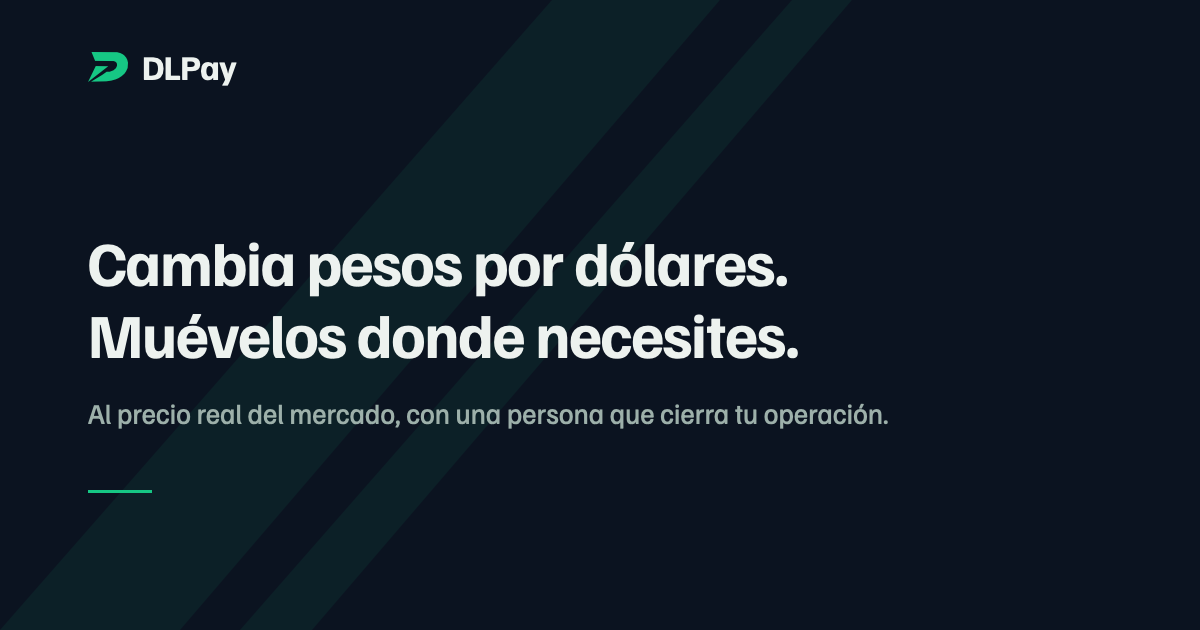
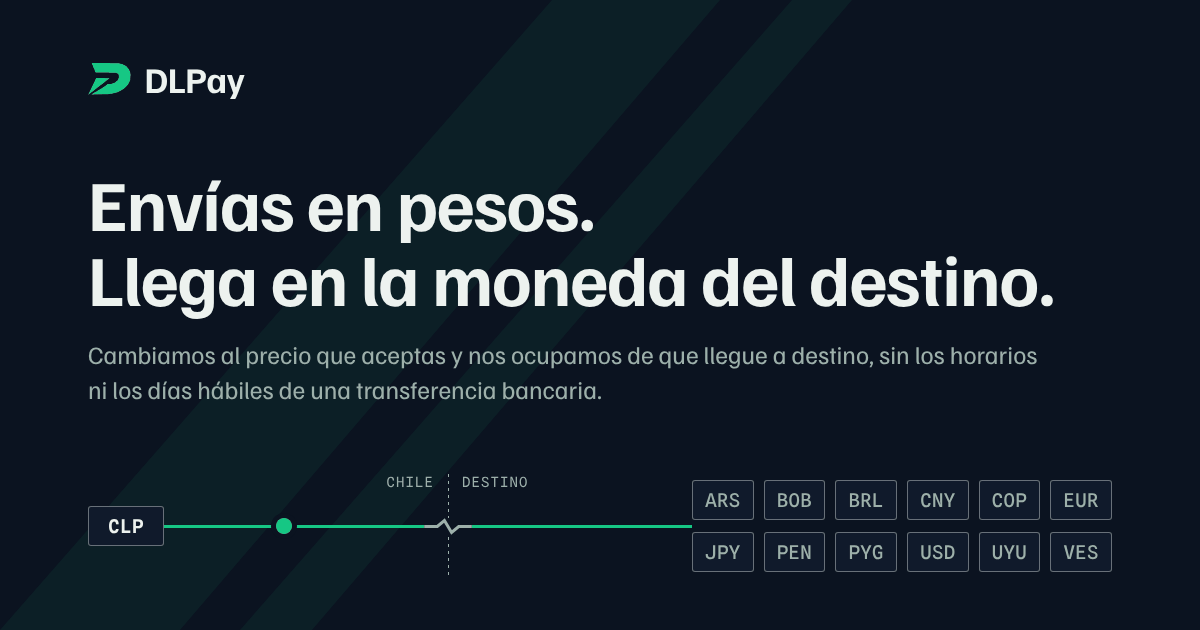
assets(og): la imagen de compartir dice lo que dice el héroe
- «Envías en pesos. Llega en la moneda del destino.» y la bajada del
  héroe, letra por letra; abajo, el recorrido del sitio —tramo verde,
  punto, cuña y frontera— hasta las doce monedas, el dólar una de ellas
- sin plazo, sin canal en el destino, nada regulatorio
- el alt cambia con ella; 88.049 → 31.326 B; mismas medidas
- el fuente, por fin, versionado en docs/og-image/

Entrega `og-` de Cowork, integrada sobre 826d569. Comprobado por mi
lado antes de publicarla: las doce fichas de divisa coinciden una a una
con el catálogo de `currencies.ts`, el titular y la bajada coinciden
letra por letra con `Hero.astro`, y ninguna de las cinco cosas que el
encargo prohibía —plazo, canal, claim regulatorio, «remesa», el dólar
como producto— aparece escrita ni dibujada.

El guion va como `.mjs.txt` y no como `.mjs`: `tsconfig.json` incluye
`**/*` y sólo excluye `dist` y `Claude outputs`, así que un `.mjs` que
importa `playwright` —que no es dependencia— rompería `astro check`.
Es la convención que `cowork/README.md` ya usa.

**Y el fuente se comprobó, no se archivó a ciegas:** rasterizado desde
`docs/og-image/` da los mismos 1200 × 630 y un 1,1 % de píxeles
distintos, todos en bordes de texto y diagonales — el paso de 128
colores, no otro dibujo. Las fuentes cargan desde `../../public/fonts/`.

18 páginas · 128/128 · 0 errores, 0 avisos · el alt y las medidas, en
las 18

diff --git a/docs/og-image/og-fuente.html b/docs/og-image/og-fuente.html
@@ -1,0 +1,122 @@
+<!doctype html>
+<!--
+  og-image.png · fuente · Cowork, entrega `og-`, 2026-10-22. Archivo: `og-fuente.html`.
+
+  Se rasteriza a 1200 × 630 con Chromium (Playwright): `node og-rasterizar.mjs`, que va al lado.
+  **No sirve la captura de la línea de comandos de Chrome** (`--headless=new --screenshot`): su
+  ventana de 630 deja una vista de ~543 px y corta la figura de abajo. Probado el 2026-10-22.
+  Después se reduce a 128 colores (PIL: quantize, MEDIANCUT, sin tramado): 31 KB, igual a la vista.
+  Las fuentes son las de `public/fonts/` del repo, por ruta relativa. **Este archivo ya vive en
+  `docs/og-image/`**, así que las tres apuntan a `../../public/fonts/`: se versionó el 2026-10-22,
+  que era la condición que `docs/development.md` pedía tras perderse el fuente de la primera
+  versión.
+
+  Qué dice, y de dónde sale cada cosa:
+  · Titular: `Hero.astro`, letra por letra — «Envías en pesos. Llega en la moneda del destino.»
+  · Bajada: la bajada del héroe, letra por letra.
+  · La figura: el recorrido de «El mismo envío, por dos caminos» y del cotizador, con sus marcas
+    del DS §6.2 — tramo verde (lo nuestro, de punta a punta desde ADR-0014), punto verde (la
+    unidad de valor), cuña (cambia de manos), punteado (la frontera de Chile, un límite).
+  · Las doce monedas van en orden alfabético y con el mismo peso: el dólar es una más (ADR-0013).
+
+  Lo que NO dice, ni escrito ni dibujado (CLAUDE.md §1, ADR-0014): ningún plazo ni reloj, ningún
+  canal de entrega ni banco en el destino, nada regulatorio, ni «remesa».
+-->
+<html lang="es-CL">
+<head>
+<meta charset="utf-8">
+<style>
+  @font-face { font-family: 'Familjen Grotesk'; font-weight: 400 700; src: url('../../public/fonts/familjen-grotesk-latin.woff2') format('woff2'); unicode-range: U+0000-00FF, U+2000-206F; }
+  @font-face { font-family: 'Familjen Grotesk'; font-weight: 400 700; src: url('../../public/fonts/familjen-grotesk-latin-ext.woff2') format('woff2'); unicode-range: U+0100-02BA; }
+  @font-face { font-family: 'Spline Sans Mono'; font-weight: 400 600; src: url('../../public/fonts/spline-sans-mono-latin.woff2') format('woff2'); unicode-range: U+0000-00FF, U+2000-206F; }
+
+  :root {
+    --tinta: #0B1320; --tinta-2: #101A2B; --verde: #16C784;
+    --on-tinta: #EDF2EF; --on-tinta-mute: #9DB0AA; --line-on-tinta: rgba(237, 242, 239, .40);
+  }
+  * { box-sizing: border-box; margin: 0; padding: 0; }
+  html, body { width: 1200px; height: 630px; }
+  body {
+    position: relative; overflow: hidden;
+    background: var(--tinta); color: var(--on-tinta);
+    font-family: 'Familjen Grotesk', sans-serif;
+    -webkit-font-smoothing: antialiased;
+  }
+  /* Las cuñas del héroe, con su misma geometría y su misma opacidad. */
+  .cunas {
+    position: absolute; inset: 0; background: var(--verde); opacity: .07;
+    clip-path: polygon(0 100%, 46% 0, 60% 0, 15% 100%, 20% 100%, 66% 0, 71% 0, 26% 100%);
+  }
+  .lienzo { position: absolute; inset: 0; padding: 56px 88px 0; }
+
+  .marca { display: flex; align-items: center; gap: 14px; font-weight: 700; font-size: 36px; letter-spacing: -.01em; }
+  .marca svg { height: 32px; width: auto; color: var(--verde); display: block; }
+
+  h1 {
+    margin-top: 64px;
+    font-weight: 700; font-size: 72px; line-height: 1.04; letter-spacing: -.015em;
+  }
+  h1 span { display: block; }
+  .bajada {
+    margin-top: 22px; max-width: 960px;
+    font-size: 25px; line-height: 1.42; color: var(--on-tinta-mute);
+  }
+
+  /* ── El recorrido ─────────────────────────────────────────────────────── */
+  .ruta { position: absolute; left: 88px; right: 88px; bottom: 58px; height: 92px; }
+  .ficha {
+    font-family: 'Spline Sans Mono', monospace; font-weight: 600; font-size: 19px; letter-spacing: .02em;
+    display: grid; place-items: center; height: 40px; padding: 0 12px;
+    border: 1px solid var(--line-on-tinta); border-radius: 3px; background: var(--tinta-2); color: var(--on-tinta);
+  }
+  .origen { position: absolute; left: 0; top: 26px; width: 76px; }
+  .tramo { position: absolute; left: 76px; width: 528px; top: 44.5px; border-top: 3px solid var(--verde); }
+  .punto {
+    position: absolute; left: 196px; top: 46px; width: 16px; height: 16px; margin: -8px 0 0 -8px;
+    border-radius: 50%; background: var(--verde); box-shadow: 0 0 0 5px var(--tinta);
+  }
+  .frontera {
+    position: absolute; left: 360px; top: -6px; bottom: -6px; width: 1.25px;
+    background: repeating-linear-gradient(to bottom, var(--on-tinta-mute) 0 3px, transparent 3px 7px);
+  }
+  .cuna { position: absolute; left: 360px; top: 46px; width: 48px; height: 17px; margin: -8.5px 0 0 -24px; background: var(--tinta); color: var(--on-tinta-mute); }
+  .cuna svg { display: block; width: 100%; height: 100%; overflow: visible; }
+  .zona {
+    position: absolute; top: -6px;
+    font-family: 'Spline Sans Mono', monospace; font-size: 14px; letter-spacing: .08em; text-transform: uppercase; color: var(--on-tinta-mute);
+  }
+  .aca { right: calc(100% - 360px + 14px); }
+  .alla { left: calc(360px + 14px); }
+  .destino {
+    position: absolute; left: 604px; right: 0; top: 0;
+    display: grid; grid-template-columns: repeat(6, 1fr); gap: 12px 10px;
+  }
+  .destino .ficha { color: var(--on-tinta-mute); font-weight: 500; }
+</style>
+</head>
+<body>
+  <div class="cunas"></div>
+  <div class="lienzo">
+    <div class="marca">
+      <svg viewBox="0 0 100 75.11" fill="currentColor" fill-rule="evenodd" aria-hidden="true"><path d="M9.33 0 L72.89 0.44 L80.89 2.67 L87.11 5.78 L90.67 8.44 L95.56 14.22 L98.22 19.56 L100 26.67 L99.11 40 L95.11 48.44 L91.11 54.22 L84 60.44 L76.44 65.33 L69.33 68.44 L58.22 71.56 L45.78 73.33 L7.56 74.22 L36 56.89 L46.67 49.33 L54.22 49.33 L63.56 45.78 L69.78 40.44 L72.44 34.67 L72.44 29.78 L71.11 26.67 L68 24 L64 22.67 L17.78 22.22 L8.89 0.44 Z M19.56 35.11 L50.67 35.56 L0 75.11 L19.11 35.56 Z"/></svg>
+      <span>DLPay</span>
+    </div>
+    <h1><span>Envías en pesos.</span> <span>Llega en la moneda del destino.</span></h1>
+    <p class="bajada">Cambiamos al precio que aceptas y nos ocupamos de que llegue a destino, sin los horarios ni los días hábiles de una transferencia bancaria.</p>
+  </div>
+
+  <div class="ruta" aria-hidden="true">
+    <span class="zona aca">Chile</span>
+    <span class="zona alla">Destino</span>
+    <div class="ficha origen">CLP</div>
+    <div class="tramo"></div>
+    <div class="frontera"></div>
+    <span class="cuna"><svg viewBox="0 0 56 20" fill="none"><path d="M0 10h15.4l8.4-7 8.4 14 8.4-7h15.4" stroke="currentColor" stroke-width="3" stroke-linejoin="miter" vector-effect="non-scaling-stroke"/></svg></span>
+    <span class="punto"></span>
+    <div class="destino">
+      <div class="ficha">ARS</div><div class="ficha">BOB</div><div class="ficha">BRL</div><div class="ficha">CNY</div><div class="ficha">COP</div><div class="ficha">EUR</div>
+      <div class="ficha">JPY</div><div class="ficha">PEN</div><div class="ficha">PYG</div><div class="ficha">USD</div><div class="ficha">UYU</div><div class="ficha">VES</div>
+    </div>
+  </div>
+</body>
+</html>

diff --git a/docs/development.md b/docs/development.md
@@ -610,8 +610,27 @@ Generados, no escritos a mano:
   **Lo que esta línea decía y era falso:** «para regenerarla hay un guion en el historial del
   commit correspondiente». *Comprobado el 2026-10-22, en todos los commits de todas las ramas: ese
   guion no está.* El commit que añadió la imagen (`0d7eeb8`) trae el PNG y ningún fuente, así que
-  se compuso fuera del repositorio y se perdió. Quien tenga que rehacerla **empieza de cero**, y
-  conviene que esa vez sí deje el fuente versionado.
+  se compuso fuera del repositorio y se perdió.
+
+  **Ya no se empieza de cero: el fuente está en `docs/og-image/`** desde que se rehízo, ese mismo
+  día, porque el héroe cambió de titular y la imagen se quedó diciendo lo de antes.
+
+  - **`og-fuente.html`** — la composición. Usa las fuentes reales del proyecto por ruta relativa,
+    `../../public/fonts/`, así que se abre en el navegador y se ve tal cual.
+  - **`og-rasterizar.mjs.txt`** — el rasterizador: Playwright a 1200 × 630 y después una reducción
+    a 128 colores, que deja el archivo en 31 KB sin que se note. **Va en `.txt` y no en `.mjs`
+    porque `tsconfig.json` incluye `**/*`**: un `.mjs` que importa `playwright` —que no es
+    dependencia— rompería `astro check`. Es la convención que `cowork/README.md` ya usa.
+  - **La captura de línea de comandos de Chrome NO sirve** (`--headless=new --screenshot`): su
+    ventana deja una vista de ~543 px y corta la figura de abajo. Probado el 2026-10-22.
+
+  **Comprobado que el fuente reproduce la imagen:** rasterizado desde `docs/og-image/`, da los
+  mismos 1200 × 630 y un 1,1 % de píxeles distintos, todos en bordes de texto y diagonales — es el
+  paso de 128 colores, no otro dibujo.
+
+  **Y una advertencia para quien toque el héroe:** el titular y la bajada de la imagen son los de
+  `Hero.astro`, letra por letra. Si cambia el héroe, esta imagen queda desfasada y hay que
+  rehacerla; su texto alternativo, en `Base.astro`, cambia con ella.
 - **Datos estructurados** (`Organization`): sólo nombre, razón social, sitio y logo. Nada de
   fundación, cobertura ni valoraciones — el mismo criterio que rige el resto del contenido.
 - **Favicon** SVG derivado del isotipo, más `apple-touch-icon.png`.
